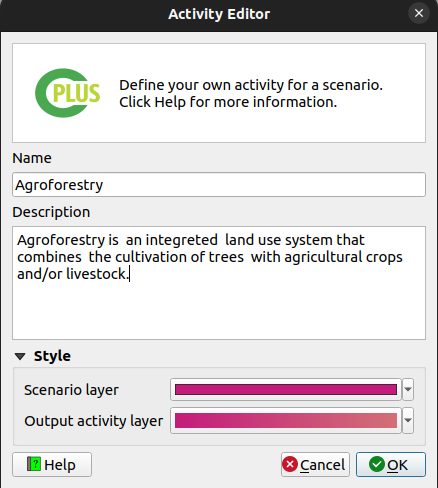
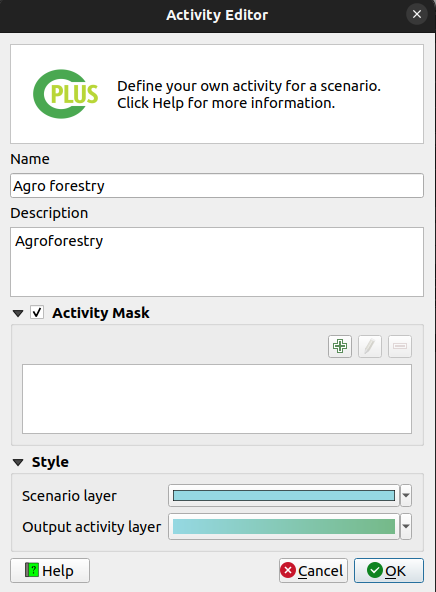
Added activity mask feature on step-2 docs

diff --git a/docs/user/guide/step-2.md b/docs/user/guide/step-2.md
@@ -66,7 +66,7 @@ For example, if you are creating an NCS pathway for Agroforestry, you would sele
 
 Once you have entered all the required details, click on the `OK` button to add the NCS pathway.
 
-### Methode 2 add using online default
+### Method 2 add using online default
 
 In this method, you will add a new NCS pathway using online defaults. This option is available if you have an account on the Trends.Earth platform.
 
@@ -97,8 +97,6 @@ step 3. </blockquote>
 
 <blockquote> Be sure each NCS pathway's Carbon layers are set up correctly before setting up the activities in the steps that follow. Changes to the Carbon layers afterward will require the user to set up the activities again. </blockquote>
 
-## Activity
-
 Add pathways to an existing activity:
 
 - Select the activity to which a pathway should be added.
@@ -117,15 +115,61 @@ Add pathways to an existing activity:
 
 - Provide a **Name** and **Description**.
 
-- (optional) The user can provide an existing raster for the activity. Enable the **Map layer** to do this.
+- (Optional) **Activity Mask** excludes specific areas, restricting pathways to a targeted activity.
 
 - Click **OK**.
 
 - The new **activity** will be added.
 
-![CPLUS add implementation model](img/plugin-activity.png)
+![Edit Activity Mask](./img/plugin-step2-5.png)
 
 *Figure 4: Activity creator/editor*
+
+### Activity Mask 
+
+Activity Masking enables users to exclude specific areas from pathways. This functionality helps in refining analyses by isolating regions that are not relevant or need to be avoided during operations.
+
+#### How does the Activity Masking work?
+
+Imagine planning a journey or mapping an area, and you want to exclude specific region like restricted zones, private properties, or hazardous locations. This masking tool allows you to mark those areas, ensuring they are excluded from your plans or analysis. It is like instructing the system, avoid these areas, enabling you to focus on relevant zones and create more precise and efficient plans.
+
+* As you can see in the below image, shape 1⃣, shape 2⃣, and shape 3⃣ are masks.
+
+    ![Activity Mask](./img/plugin-step2-6.png)
+
+* Here is the list of activities displayed without applying any mask. This means all areas are included, and no regions have been excluded or hidden from the analysis.
+
+    ![Without Activity Mask 1](./img/plugin-step2-7.png)
+
+    ![Without Activity Mask 2](./img/plugin-step2-8.png)
+    
+* After applying the mask, the specified area becomes restricted for that particular activity. This ensures that no operations or tasks are carried out within that area, effectively excluding it from the analysis. As shown in the image below, after applying the mask, the specified area is marked as restricted for that particular activity. This restriction ensures that no operations or tasks related to the specific activity take place within the designated area, effectively excluding it from the further analysis.
+
+    ![With Activity Mask 1](./img/plugin-step2-9.png)
+
+    ![With Activity Mask 2](./img/plugin-step2-10.png)
+
+#### How to add Activity Mask?
+
+- Click on the **Activity Mask** checkbox. This will allow to add the activity mask.
+
+- To add new activity mask click on the ![plus button](./img/plugin-step2-1.png) icon. This will open a `Select mask layer` pop up window. Select your desired 1⃣ mask you want to add and then click on the 2⃣ `Open` button.
+
+    ![Activity Mask Selection](./img/plugin-step2-11.png)
+
+- This process will add the mask on your activity.
+
+#### Edit Activity Mask
+
+- Select the activity mask and click on the ![Change Icon](./img/plugin-step2-rename-icon.png) icon. This will open a `Select mask layer` pop up window from where you choose your desired activity mask.
+
+#### Delete Activity Mask
+
+- Select the activity mask and click on the ![Delete Icon](./img/plugin-step2-delete-icon.png) icon. A confirmation dialog box will appear, allowing you to confirm the deletion of the selected activity mask or you can close the process.
+
+    ![Delete Activity Mask](./img/plugin-step2-12.png)
+
+### Ordering of the pixel values for the scenario output
 
 - Open the Style pixel value editor by clicking on the ![CPLUS add implementation model](img/button_pixels_order.png) button.
 
@@ -138,7 +182,7 @@ Add pathways to an existing activity:
 ![CPLUS style pixel value editor](img/style_pixel_value_editor.png)
 
 - The final step is to select each of the activities a user wants to include in the scenario run.
-- A user can exclude activities if they don't want to include them, even if the activity has pathways.
+- A user can exclude activities if they do not want to include them, even if the activity has pathways.
 
 ![CPLUS selected IMs](img/plugin-selected-activities.png)
 

diff --git a/docs/user/manual/step-2.md b/docs/user/manual/step-2.md
@@ -66,6 +66,8 @@
 
 - **Description**: A detailed description of the activity. This will be used in the report
 
+- **Activity Mask**: Activity Mask can be set to a specific mask to limit the pathways that can be added to the activity.By checking the  box user will be able to apply the activity mask.
+
 - **Style**: Styles used for the activity:
 
     - *Scenario layer*: Colouring which will be used in the Scenario output for this activity
@@ -73,6 +75,74 @@
     - *Output activity layer*: Colour ramp which will be applied to the activity raster output
 
 - **Map layer**: If enabled, a user can provide an existing activity. This has to be a raster
+
+## Activity Mask
+
+Activity Masking enables users to exclude specific areas from analysis. This functionality helps in refining analyses by isolating regions that are not relevant or need to be avoided during operations or planning.
+
+### How Activity Masking works?
+
+Imagine planning a journey or mapping an area, and you want to exclude specific region like restricted zones, private properties, or hazardous locations. This masking tool allows you to mark those areas, ensuring they are excluded from your plans or analysis. It is like instructing the system, avoid these areas, enabling you to focus on relevant zones and create more precise and efficient plans.
+
+* As you can see in the below image, shape 1⃣, shape 2⃣, and shape 3⃣ are masks.
+
+    ![Activity Mask](./img/manual-step2-11.png)
+
+* Here are activities displayed without applying any activity mask. This means all areas are included, and no regions have been excluded or hidden from the analysis.
+
+    ![Without Activity Mask 1](./img/manual-step2-7.png)
+
+    ![Without Activity Mask 2](./img/manual-step2-8.png)
+    
+* After applying the mask, the specified area becomes restricted for any activities or work. This ensures that no operations or tasks are carried out within that area, effectively excluding it from the analysis. As shown in the image below, after applying the mask, the specified area is marked as restricted for that particular activity. This restriction ensures that no operations or tasks related to the specific activity take place within the designated area, effectively excluding it from the further analysis.
+
+    ![With Activity Mask 1](./img/manual-step2-9.png)
+
+    ![With Activity Mask 2](./img/manual-step2-10.png)
+
+### Apply Activity Mask
+
+![Activity Mask](./img/manual-step2-6.png)
+
+1. **✅ Activity Mask**: By checking this user will be able add activity mask.
+
+2. ![add button](img/symbologyAdd.svg): Add new activity mask. Click on this button to add a new activity mask. After clicking on the button, a new window will open from where user can select the shape file.
+
+    ![Activity Mask Selection](./img/manual-step2-12.png)
+
+    **1. File:** Desired activity mask you want to apply.
+
+    **2. Open:** After selecting the file, click the `Open` button to include it in the activity.
+
+    **3. Close:** Click on the `Close` button to close the window.
+
+3. ![edit button](img/mActionToggleEditing.svg):Edit activity mask. Select the file you want to edit and then click on the ![edit button](img/mActionToggleEditing.svg) `Icon`. This will open a new window, allowing you to choose a new activity mask.
+
+    ![Activity Mask Editor](./img/manual-step2-14.png)
+
+    This will open a new window, allowing you to choose a new activity mask.
+
+    ![Activity Mask Selection](./img/manual-step2-12.png)
+
+    **1. File:** Desired activity mask you want to add.
+
+    **2. Open:** After selecting the file, click the `Open` button to include it in the activity.
+
+    **3. Close:** Click on the `Close` button to close the window.
+
+4. ![remove button](img/symbologyRemove.svg): Remove the selected activity mask. Select the activity mask you want to remove and click on the ![remove button](img/symbologyRemove.svg) `Icon`.
+
+    ![Activity Mask Selection](./img/manual-step2-14.png)
+    
+    After clicking on the remove button, a confirmation dialog box will appear, prompting you to confirm the action.
+
+    ![Remove Activity Mask](./img/manual-step2-15.png)
+
+    **No:** Click on the `No` button to cancel the action.
+
+    **Yes:** Click on the `Yes` button to confirm the action and remove the activity mask.
+
+    **x:** Click on the `x` button to close the dialog box.
 
 
 ## Ordering of the pixel values for the scenario output
